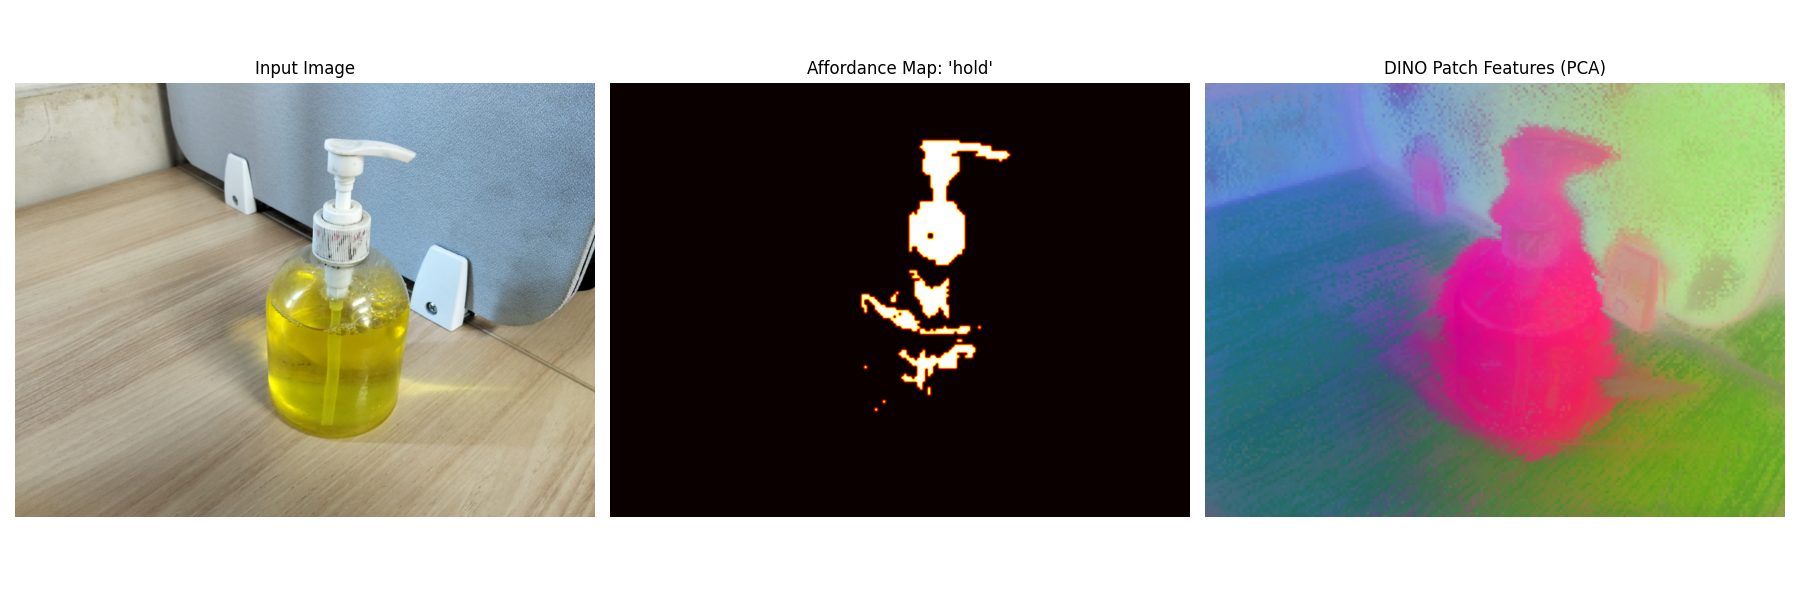
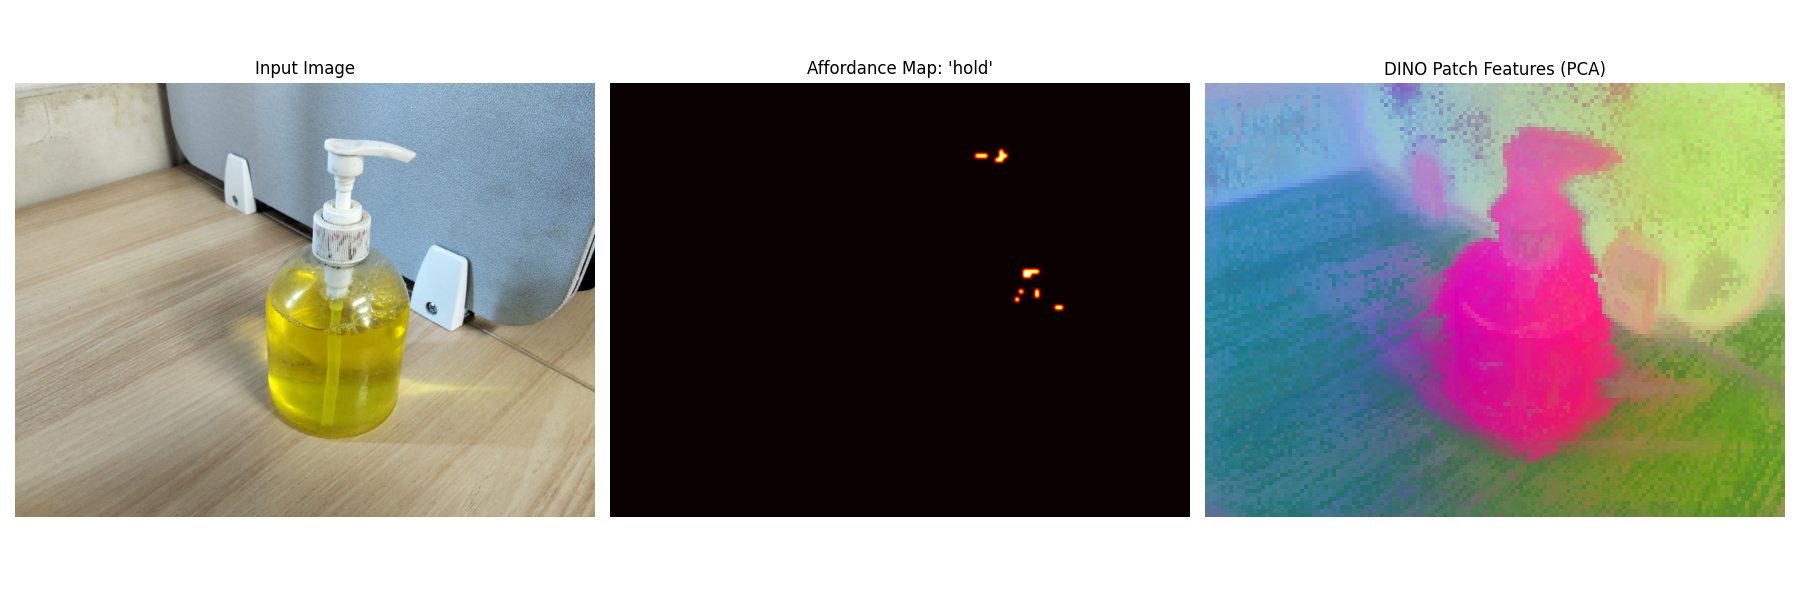
feat: changing openai to geminikey

diff --git a/src/utils/vlm_utils.py b/src/utils/vlm_utils.py
@@ -2,6 +2,7 @@
 Utility functions for VLM
 """
 from openai import OpenAI
+import google.generativeai as genai
 
 import os
 import ast
@@ -27,6 +28,8 @@ def get_text_embedding_options(option="embeddings_oai"):
         return get_text_embedding
     elif option == "embeddings_st":
         return get_text_embedding_sentence_transformer
+    elif option == "embeddings_gemini":
+        return get_text_embedding_gemini
     else:
         raise ValueError(f"Invalid option: {option}")
 
@@ -34,9 +37,22 @@ def get_text_embedding(text, model="text-embedding-3-large", dim=1024):
     """
     Get openai text embedding with specified dimension
     """
-    client = OpenAI(api_key=os.environ["OPENAI_API_KEY"])
-    embedding = np.array(client.embeddings.create(input=[text], model=model, dimensions=dim).data[0].embedding)
-    return embedding
+    try:
+        client = OpenAI(api_key=os.environ["OPENAI_API_KEY"])
+        embedding = np.array(client.embeddings.create(input=[text], model=model, dimensions=dim).data[0].embedding)
+        return embedding
+    except KeyError:
+        print("OPENAI_API_KEY not found. Attempting to fall back to sentence transformer.")
+        # The hardcoded sentence transformer model produces 384-dim embeddings.
+        # Only fall back if the requested dimension is compatible.
+        if dim == 384:
+            print("Using sentence transformer for 384-dim embedding.")
+            return get_text_embedding_sentence_transformer(text)
+        else:
+            raise ValueError(
+                f"OPENAI_API_KEY not found, and the requested embedding dimension ({dim}) "
+                f"does not match the fallback sentence transformer's dimension (384)."
+            )
 
 def get_text_embedding_sentence_transformer(text, model_name="all-MiniLM-L6-v2"):
     """
@@ -44,6 +60,25 @@ def get_text_embedding_sentence_transformer(text, model_name="all-MiniLM-L6-v2")
     """
     # model = SentenceTransformer(model_name)
     embedding = sentence_transformer_model.encode(text) # shape (D,)
+    return embedding
+
+def get_text_embedding_gemini(text, model="models/text-embedding-004", dim=1024):
+    """
+    Get Gemini text embedding with specified dimension
+    """
+    genai.configure(api_key="GEMINI_API_KEY") #!TO CHANGE
+    embedding = genai.embed_content(model=model,
+                                    content=text,
+                                    task_type="retrieval_document")
+    
+    embedding = np.array(embedding['embedding'])
+    
+    # Pad the embedding if it's smaller than the target dimension
+    if embedding.shape[0] < dim:
+        padded_embedding = np.zeros(dim)
+        padded_embedding[:embedding.shape[0]] = embedding
+        return padded_embedding
+    
     return embedding
 
 ##############################################
@@ -291,4 +326,3 @@ def visualize_img_text_output(img_path_list, text_list, output_path=None):
         plt.savefig(output_path)
     else:
         plt.show()
-

diff --git a/src/inference.py b/src/inference.py
@@ -45,7 +45,7 @@ class AffordanceInference:
         # Load DINO
         torch_home = cfg.get("torch_home", None)
         # self.dino = load_pretrained_dino('dinov2_vits14', use_registers=True, torch_path=torch_home).to(self.device).eval()
-        self.dino = load_pretrained_dino('dinov2_vitl14', use_registers=True, torch_path=torch_home).to(self.device).eval()
+        self.dino = load_pretrained_dino('dinov2_vits14', use_registers=True, torch_path=torch_home).to(self.device).eval()
         self.text_embedding_func = text_embedding_func
     
     @torch.no_grad()
